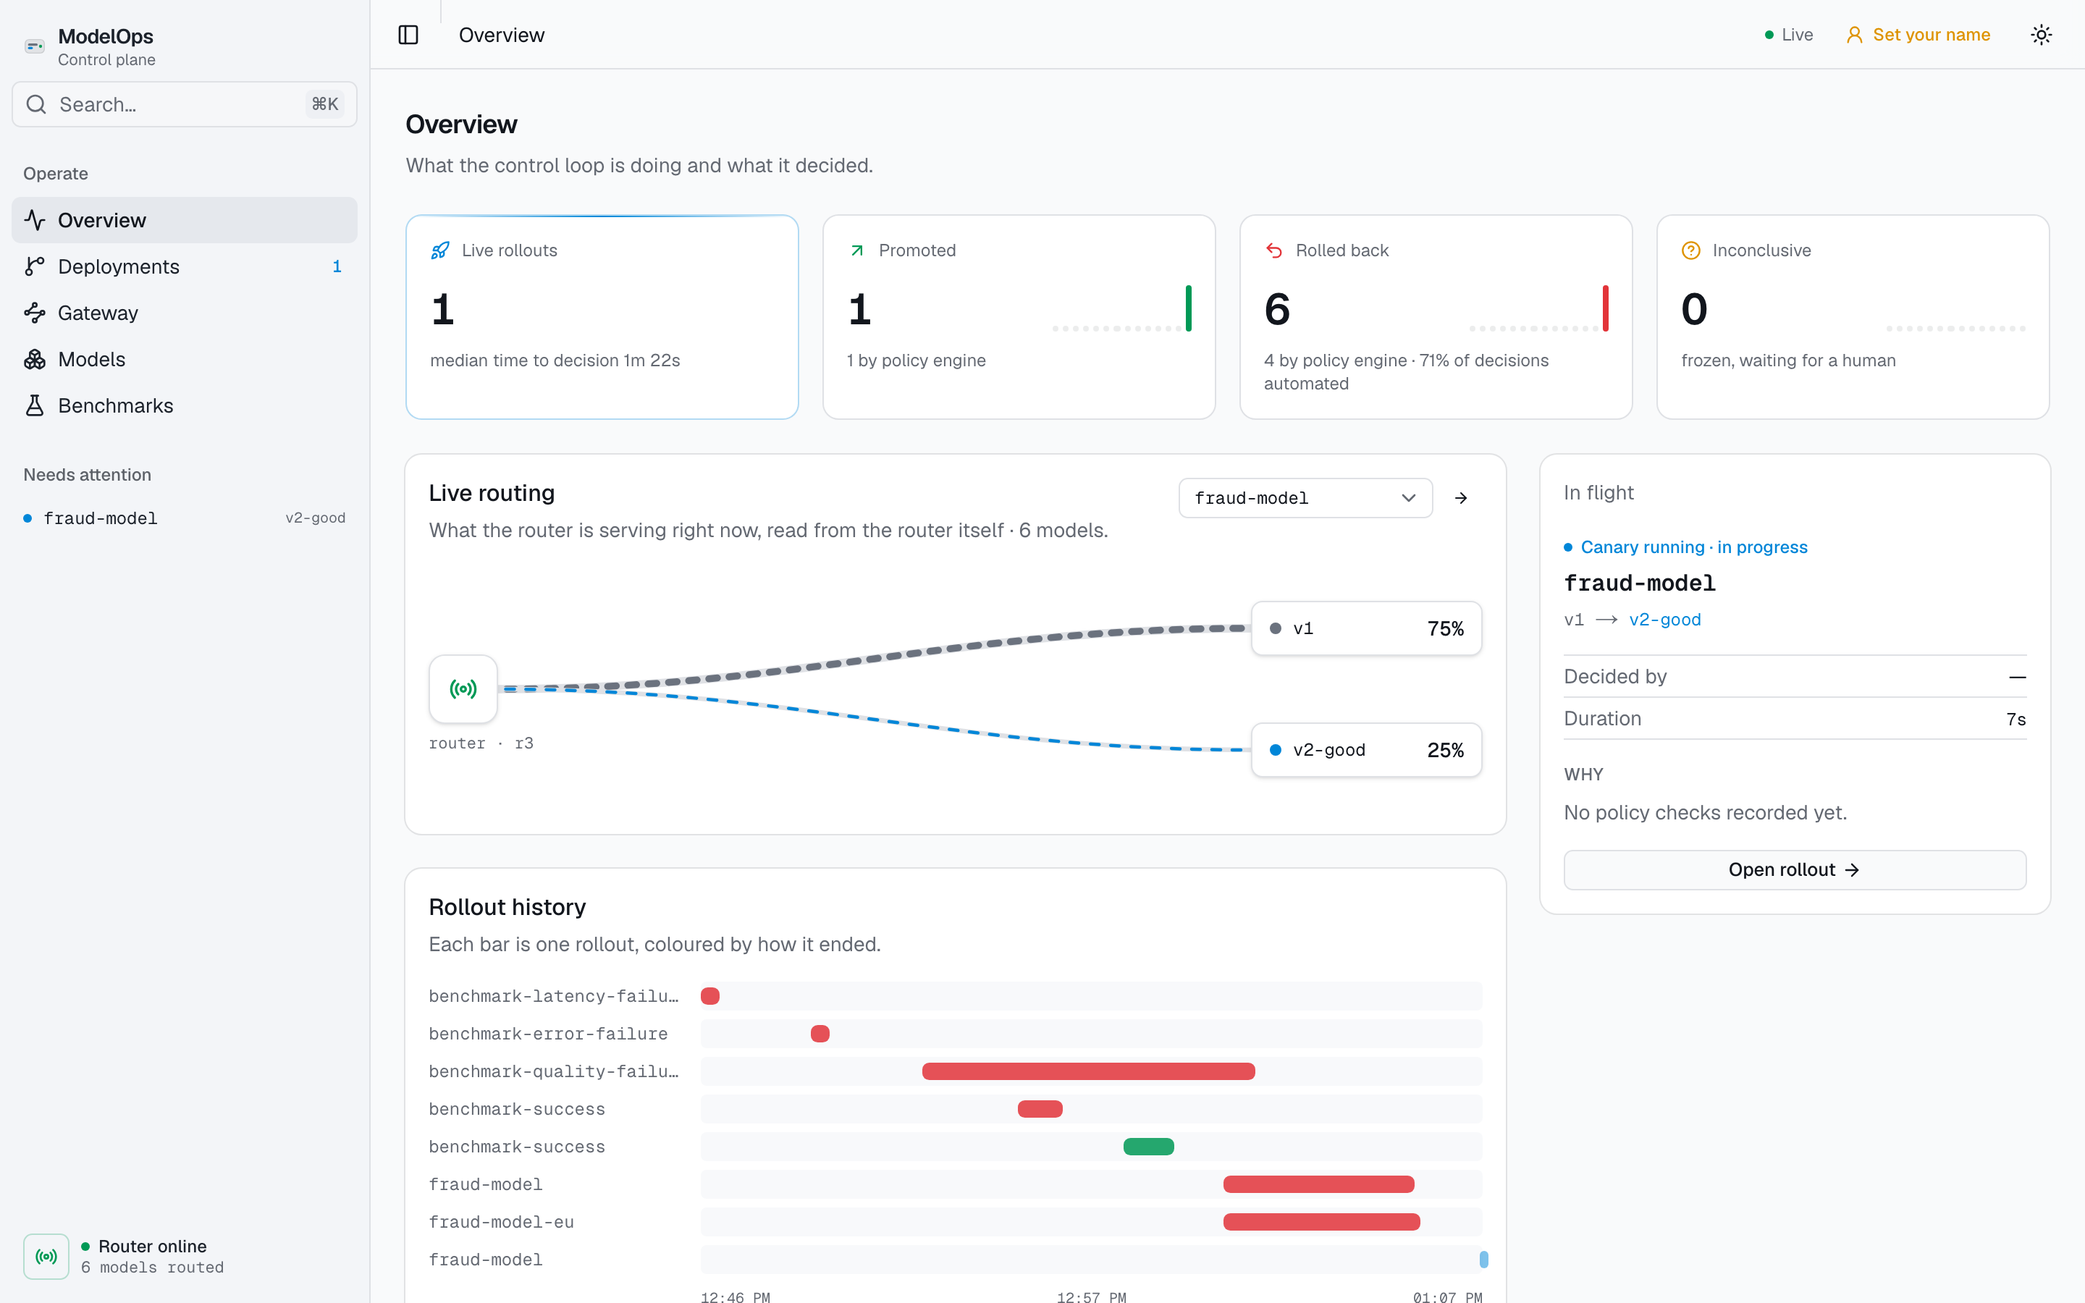
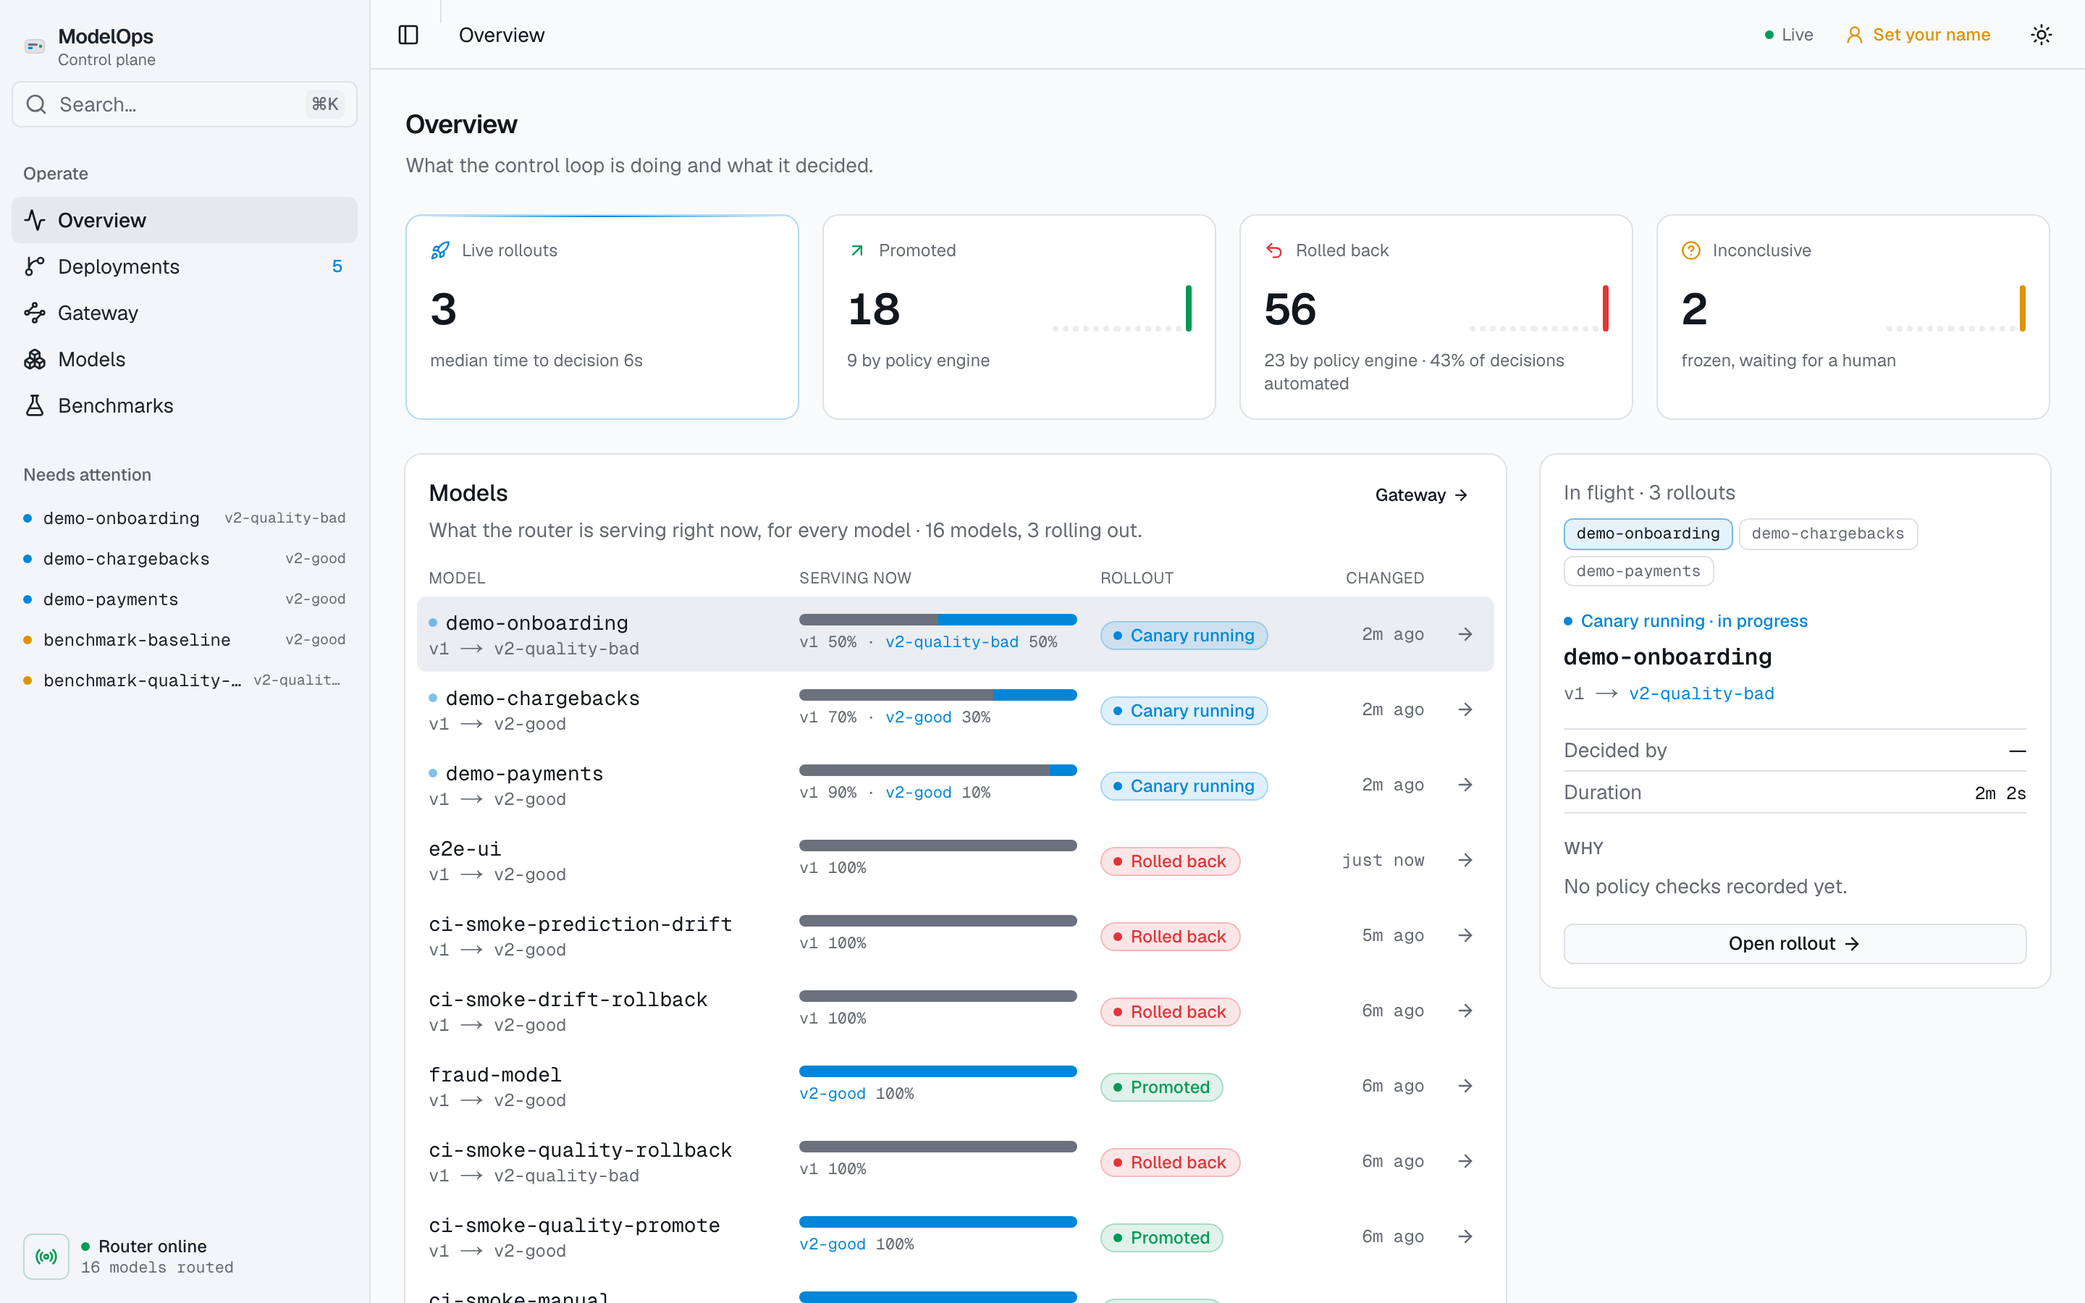
feat(ui): show every model at once on the overview
The live routing card showed one model at a time behind a dropdown, and the
inspector showed only the first live rollout. With several models served,
the rest were invisible. The overview now lists every model the router
serves (plus any with a rollout in flight): the split it is serving right
now, read from the router, its rollout status and when it last changed,
live rollouts first. Clicking a row puts that rollout in the inspector, and
with several in flight the inspector switches between them.

diff --git a/frontend/src/app/page.tsx b/frontend/src/app/page.tsx
@@ -2,9 +2,8 @@
 
 import Link from "next/link";
 import { useState } from "react";
-import { Select, SelectContent, SelectItem, SelectTrigger, SelectValue } from "@/components/ui/select";
 import { ArrowRight, ArrowUpRight, CircleHelp, GitBranch, Rocket, Undo2 } from "lucide-react";
-import { isLive, observedFor, useDeployments, useFleetSummary, useRouterObserved } from "@/lib/queries";
+import { isLive, useDeployments, useFleetSummary, useRouterObserved } from "@/lib/queries";
 import { decisionOf, formatDuration, relativeTime } from "@/lib/derive";
 import { STATUS_META, TONE_DOT } from "@/lib/status";
 import type { DeploymentOut } from "@/lib/types";
@@ -20,7 +19,7 @@ import { ActorBadge } from "@/components/viz/ActorBadge";
 import { DecisionPanel } from "@/components/viz/DecisionPanel";
 import { KpiCard } from "@/components/viz/KpiCard";
 import { RolloutLanes } from "@/components/viz/RolloutLanes";
-import { RoutingBeam } from "@/components/viz/RoutingBeam";
+import { FleetModels, fleetModels } from "@/components/viz/FleetModels";
 import { SparkBars } from "@/components/viz/SparkBars";
 
 function percent(value: number | null) {
@@ -80,59 +79,83 @@ function Kpis() {
   );
 }
 
-/** Which model to show first: one with a live rollout, else the most recently
- * started one the router holds a split for. */
-function defaultModel(deployments: DeploymentOut[], routed: string[]): string | undefined {
-  const live = deployments.find((d) => isLive(d.status) && routed.includes(d.model_name));
-  if (live) return live.model_name;
-  const latest = [...deployments]
-    .filter((d) => routed.includes(d.model_name))
-    .sort((a, b) => (b.created_at > a.created_at ? 1 : -1))[0];
-  return latest?.model_name ?? routed[0];
-}
-
-function LiveRouting({ deployments }: { deployments: DeploymentOut[] }) {
+/** Every model at once, read from the router itself. */
+function Models({
+  deployments,
+  focusId,
+  onFocus,
+}: {
+  deployments: DeploymentOut[];
+  focusId: string | undefined;
+  onFocus: (deployment: DeploymentOut) => void;
+}) {
   const { data: router } = useRouterObserved();
-  const routed = router?.configs.map((c) => c.model_name) ?? [];
-  const [picked, setPicked] = useState<string | null>(null);
-  const model = picked && routed.includes(picked) ? picked : defaultModel(deployments, routed);
-  const observed = router ? observedFor(router, model) : undefined;
-  const served = deployments.find((d) => d.id === observed?.deployment_id);
-
+  const models = fleetModels(deployments, router);
+  const live = models.filter((m) => isLive(m.latest?.status)).length;
   return (
     <Card>
       <CardHeader>
-        <CardTitle>Live routing</CardTitle>
+        <CardTitle>Models</CardTitle>
         <CardDescription>
-          What the router is serving right now, read from the router itself
-          {routed.length > 1 ? ` · ${routed.length} models` : ""}.
+          What the router is serving right now, for every model
+          {models.length ? ` · ${models.length} model${models.length === 1 ? "" : "s"}` : ""}
+          {live ? `, ${live} rolling out` : ""}.
         </CardDescription>
-        <CardAction className="flex items-center gap-1">
-          {routed.length > 1 && model ? (
-            <Select value={model} onValueChange={setPicked}>
-              <SelectTrigger size="sm" className="h-7 w-44 font-mono text-xs" aria-label="Model">
-                <SelectValue />
-              </SelectTrigger>
-              <SelectContent align="end">
-                {routed.map((name) => (
-                  <SelectItem key={name} value={name} className="font-mono text-xs">
-                    {name}
-                  </SelectItem>
-                ))}
-              </SelectContent>
-            </Select>
-          ) : null}
-          {served ? (
-            <Button asChild variant="ghost" size="xs" aria-label={`Open ${served.model_name} rollout`}>
-              <Link href={`/deployments/${served.id}`}>
-                {routed.length > 1 ? null : <span className="font-mono">{served.model_name}</span>} <ArrowRight />
-              </Link>
-            </Button>
-          ) : null}
+        <CardAction>
+          <Button asChild variant="ghost" size="xs">
+            <Link href="/gateway">
+              Gateway <ArrowRight />
+            </Link>
+          </Button>
         </CardAction>
       </CardHeader>
       <CardContent>
-        <RoutingBeam observed={observed} stableVersion={served?.stable_version} />
+        <FleetModels models={models} reachable={router?.reachable} focusId={focusId} onFocus={onFocus} />
+      </CardContent>
+    </Card>
+  );
+}
+
+/** The rollout in focus, with a switcher when several are in flight. */
+function Inspector({
+  focus,
+  live,
+  picked,
+  onFocus,
+}: {
+  focus: DeploymentOut;
+  live: DeploymentOut[];
+  picked: boolean;
+  onFocus: (deployment: DeploymentOut) => void;
+}) {
+  return (
+    <Card className="xl:sticky xl:top-16 xl:self-start">
+      <CardHeader>
+        <CardDescription>
+          {isLive(focus.status) ? (live.length > 1 ? `In flight · ${live.length} rollouts` : "In flight") : picked ? "Decision" : "Latest decision"}
+        </CardDescription>
+        {live.length > 1 ? (
+          <div className="flex flex-wrap gap-1 pt-1" role="tablist" aria-label="Rollouts in flight">
+            {live.map((d) => (
+              <button
+                key={d.id}
+                type="button"
+                role="tab"
+                aria-selected={d.id === focus.id}
+                onClick={() => onFocus(d)}
+                className={cn(
+                  "max-w-full truncate rounded-md border px-2 py-0.5 font-mono text-[11px] transition-colors",
+                  d.id === focus.id ? "border-canary/50 bg-canary/10 text-foreground" : "text-muted-foreground hover:text-foreground",
+                )}
+              >
+                {d.model_name}
+              </button>
+            ))}
+          </div>
+        ) : null}
+      </CardHeader>
+      <CardContent>
+        <DecisionPanel deployment={focus} />
       </CardContent>
     </Card>
   );
@@ -190,6 +213,7 @@ function DecisionFeed({ deployments }: { deployments: DeploymentOut[] }) {
 }
 
 function OverviewContent({ deployments }: { deployments: DeploymentOut[] }) {
+  const [focusId, setFocusId] = useState<string | null>(null);
   if (deployments.length === 0) {
     return (
       <Empty className="border">
@@ -211,17 +235,20 @@ function OverviewContent({ deployments }: { deployments: DeploymentOut[] }) {
     );
   }
 
-  // Inspector focus: the live rollout if there is one, else the latest decision.
+  // Inspector focus: what was clicked, else the first live rollout, else the latest decision.
+  const live = deployments.filter((d) => isLive(d.status));
   const focus =
-    deployments.find((d) => isLive(d.status)) ??
+    deployments.find((d) => d.id === focusId) ??
+    live[0] ??
     [...deployments].sort((a, b) => (decisionOf(b)?.at?.getTime() ?? 0) - (decisionOf(a)?.at?.getTime() ?? 0))[0];
+  const onFocus = (d: DeploymentOut) => setFocusId(d.id);
 
   return (
     <div className="space-y-6">
       <Kpis />
       <div className="grid gap-6 xl:grid-cols-[minmax(0,1fr)_22rem]">
         <div className="min-w-0 space-y-6">
-          <LiveRouting deployments={deployments} />
+          <Models deployments={deployments} focusId={focus?.id} onFocus={onFocus} />
           <Card>
             <CardHeader>
               <CardTitle>Rollout history</CardTitle>
@@ -233,14 +260,7 @@ function OverviewContent({ deployments }: { deployments: DeploymentOut[] }) {
           </Card>
           <DecisionFeed deployments={deployments} />
         </div>
-        <Card className="xl:sticky xl:top-16 xl:self-start">
-          <CardHeader>
-            <CardDescription>{isLive(focus.status) ? "In flight" : "Latest decision"}</CardDescription>
-          </CardHeader>
-          <CardContent>
-            <DecisionPanel deployment={focus} />
-          </CardContent>
-        </Card>
+        <Inspector focus={focus} live={live} picked={focus.id === focusId} onFocus={onFocus} />
       </div>
     </div>
   );

diff --git a/frontend/src/components/viz/FleetModels.tsx b/frontend/src/components/viz/FleetModels.tsx
@@ -1,0 +1,170 @@
+"use client";
+
+import Link from "next/link";
+import { ArrowRight, Unplug } from "lucide-react";
+import { isLive, observedFor } from "@/lib/queries";
+import { relativeTime } from "@/lib/derive";
+import { parseApiDate } from "@/lib/format";
+import type { DeploymentOut, ObservedRouter } from "@/lib/types";
+import { cn } from "@/lib/utils";
+import { StatusBadge } from "@/components/StatusBadge";
+
+export type FleetModel = {
+  name: string;
+  /** The model's most recent rollout, live or finished. */
+  latest: DeploymentOut | undefined;
+  targets: { version: string; weight: number }[] | null;
+};
+
+/** When the rollout last changed: its latest event, or its creation. */
+function lastChange(d: DeploymentOut | undefined): Date | null {
+  if (!d) return null;
+  return parseApiDate(d.events.length ? d.events[d.events.length - 1].created_at : d.created_at);
+}
+
+/** One entry per model the router serves or that has a rollout in flight, live
+ * rollouts first, then by most recent activity. */
+export function fleetModels(deployments: DeploymentOut[], router: ObservedRouter | undefined): FleetModel[] {
+  const latest = new Map<string, DeploymentOut>();
+  for (const d of deployments) {
+    const seen = latest.get(d.model_name);
+    if (!seen || d.created_at > seen.created_at) latest.set(d.model_name, d);
+  }
+  const names = new Set(router?.configs.map((c) => c.model_name) ?? []);
+  for (const [name, d] of latest) if (isLive(d.status)) names.add(name);
+
+  const activity = (m: FleetModel) => lastChange(m.latest)?.getTime() ?? 0;
+  return [...names]
+    .map((name) => ({
+      name,
+      latest: latest.get(name),
+      targets: router ? observedFor(router, name).targets : null,
+    }))
+    .sort((a, b) => {
+      const live = Number(isLive(b.latest?.status)) - Number(isLive(a.latest?.status));
+      return live || activity(b) - activity(a) || a.name.localeCompare(b.name);
+    });
+}
+
+/** What the router serves for one model, as one stacked bar: stable grey, canary blue. */
+function SplitBar({ targets, stableVersion }: { targets: FleetModel["targets"]; stableVersion?: string }) {
+  if (!targets || targets.length === 0) {
+    return <span className="text-xs text-muted-foreground">not routed</span>;
+  }
+  const total = targets.reduce((s, t) => s + t.weight, 0) || 1;
+  const parts = targets.map((t, i) => ({
+    ...t,
+    pct: (t.weight / total) * 100,
+    stable: stableVersion ? t.version === stableVersion : i === 0,
+  }));
+  return (
+    <div className="min-w-0 space-y-1">
+      <div className="flex h-2 overflow-hidden rounded-full bg-muted" aria-hidden>
+        {parts.map((p) => (
+          <span
+            key={p.version}
+            className={cn("h-full transition-[width] duration-700", p.stable ? "bg-stable" : "bg-canary")}
+            style={{ width: `${p.pct}%` }}
+          />
+        ))}
+      </div>
+      <p className="truncate font-mono text-[11px] text-muted-foreground tabular">
+        {parts.map((p, i) => (
+          <span key={p.version}>
+            {i > 0 ? " · " : null}
+            <span className={p.stable ? undefined : "text-canary"}>{p.version}</span> {Math.round(p.pct)}%
+          </span>
+        ))}
+      </p>
+    </div>
+  );
+}
+
+/**
+ * Every model at once: what the router serves for each (read from the router,
+ * not the database), its rollout and when it last changed. Clicking a row puts
+ * that model's rollout in the inspector; the arrow opens it.
+ */
+export function FleetModels({
+  models,
+  reachable,
+  focusId,
+  onFocus,
+}: {
+  models: FleetModel[];
+  reachable: boolean | undefined;
+  focusId: string | undefined;
+  onFocus: (deployment: DeploymentOut) => void;
+}) {
+  return (
+    <div className="space-y-2">
+      {reachable === false ? (
+        <p className="flex items-center gap-2 rounded-md border border-dashed border-danger/40 px-3 py-2 text-xs text-danger">
+          <Unplug className="size-3.5" /> Router unreachable: the splits below are unknown until it answers.
+        </p>
+      ) : null}
+      {models.length === 0 ? (
+        <p className="py-6 text-center text-sm text-muted-foreground">
+          {reachable === undefined ? "Reading router state…" : "The router isn't serving any model yet."}
+        </p>
+      ) : (
+        <ul className="-mx-2" data-testid="fleet-models">
+          <li className="hidden grid-cols-[minmax(0,15rem)_minmax(0,1fr)_8.5rem_4.5rem_1.5rem] gap-4 px-2 pb-1 text-[11px] tracking-wide text-muted-foreground uppercase md:grid">
+            <span>Model</span>
+            <span>Serving now</span>
+            <span>Rollout</span>
+            <span className="text-right">Changed</span>
+            <span />
+          </li>
+          {models.map(({ name, latest, targets }) => {
+            const focused = latest != null && latest.id === focusId;
+            const changed = relativeTime(lastChange(latest));
+            return (
+              <li
+                key={name}
+                data-model={name}
+                className={cn(
+                  "grid grid-cols-[minmax(0,1fr)_auto] items-center gap-x-4 gap-y-2 rounded-md px-2 py-2 transition-colors md:grid-cols-[minmax(0,15rem)_minmax(0,1fr)_8.5rem_4.5rem_1.5rem]",
+                  latest && "cursor-pointer hover:bg-accent",
+                  focused && "bg-accent",
+                )}
+                onClick={latest ? () => onFocus(latest) : undefined}
+              >
+                <span className="min-w-0">
+                  <span className="flex items-center gap-1.5 font-mono text-sm" title={name}>
+                    {isLive(latest?.status) ? <span className="size-1.5 shrink-0 animate-pulse rounded-full bg-canary" /> : null}
+                    <span className="truncate">{name}</span>
+                  </span>
+                  {latest ? (
+                    <span className="block truncate font-mono text-xs text-muted-foreground">
+                      {latest.stable_version} → {latest.canary_version}
+                    </span>
+                  ) : null}
+                </span>
+                <span className="order-last col-span-2 md:order-none md:col-span-1">
+                  <SplitBar targets={targets} stableVersion={latest?.stable_version} />
+                </span>
+                <span className="justify-self-end md:justify-self-start">
+                  {latest ? <StatusBadge status={latest.status} /> : <span className="text-xs text-muted-foreground">no rollout</span>}
+                </span>
+                <span className="hidden text-right font-mono text-xs text-muted-foreground tabular md:block">{changed}</span>
+                <span className="hidden md:block">
+                  {latest ? (
+                    <Link
+                      href={`/deployments/${latest.id}`}
+                      aria-label={`Open ${name} rollout`}
+                      onClick={(e) => e.stopPropagation()}
+                      className="flex size-6 items-center justify-center rounded text-muted-foreground hover:bg-background hover:text-foreground"
+                    >
+                      <ArrowRight className="size-3.5" />
+                    </Link>
+                  ) : null}
+                </span>
+              </li>
+            );
+          })}
+        </ul>
+      )}
+    </div>
+  );
+}

diff --git a/frontend/e2e/shell.spec.ts b/frontend/e2e/shell.spec.ts
@@ -6,7 +6,11 @@ test("overview renders fleet KPIs and the live stream connects", async ({ page }
   for (const label of ["Live rollouts", "Promoted", "Rolled back", "Inconclusive"]) {
     await expect(page.getByText(label, { exact: true }).first()).toBeVisible();
   }
-  await expect(page.getByText("Live routing")).toBeVisible();
+  // Every model the router serves, each with its split, at once.
+  await expect(page.getByText(/What the router is serving right now, for every model/)).toBeVisible();
+  const models = page.getByTestId("fleet-models").locator("li[data-model]");
+  await expect(models.first()).toBeVisible();
+  await expect(models.first()).toContainText("%");
   // The header indicator switches from "Polling" to "Live" once /api/stream is open.
   await expect(page.locator("header [data-stream]")).toHaveAttribute("data-stream", "open");
 });

diff --git a/README.md b/README.md
@@ -60,7 +60,12 @@ plus Prometheus, Grafana and Jaeger.
 What the control loop is doing right now, what it decided recently, and how much
 of that was automatic.
 
-![Overview: live rollouts, promotions, rollbacks and frozen rollouts, the live routing split read from the router, and the rollout history](docs/screenshots/overview.png)
+Every model the router serves is listed at once, each with the split it's
+serving right now (read from the router, not the database), its rollout and when
+it last changed; live rollouts come first. With several rollouts in flight the
+inspector on the right switches between them.
+
+![Overview: decision KPIs, every routed model with its live split, and three rollouts in flight in the inspector](docs/screenshots/overview.png)
 
 ### Gateway
 
